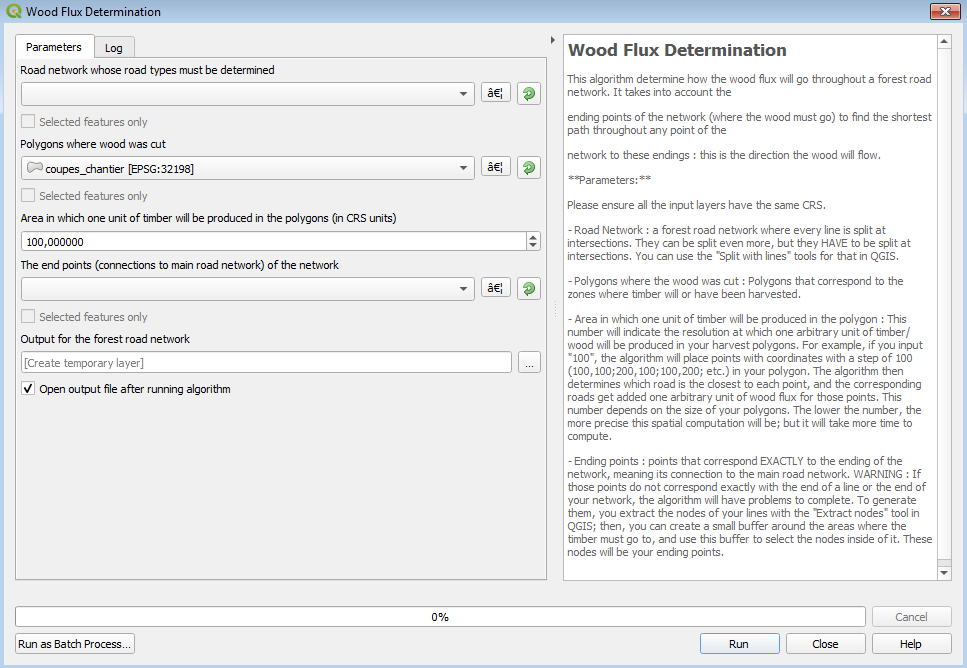
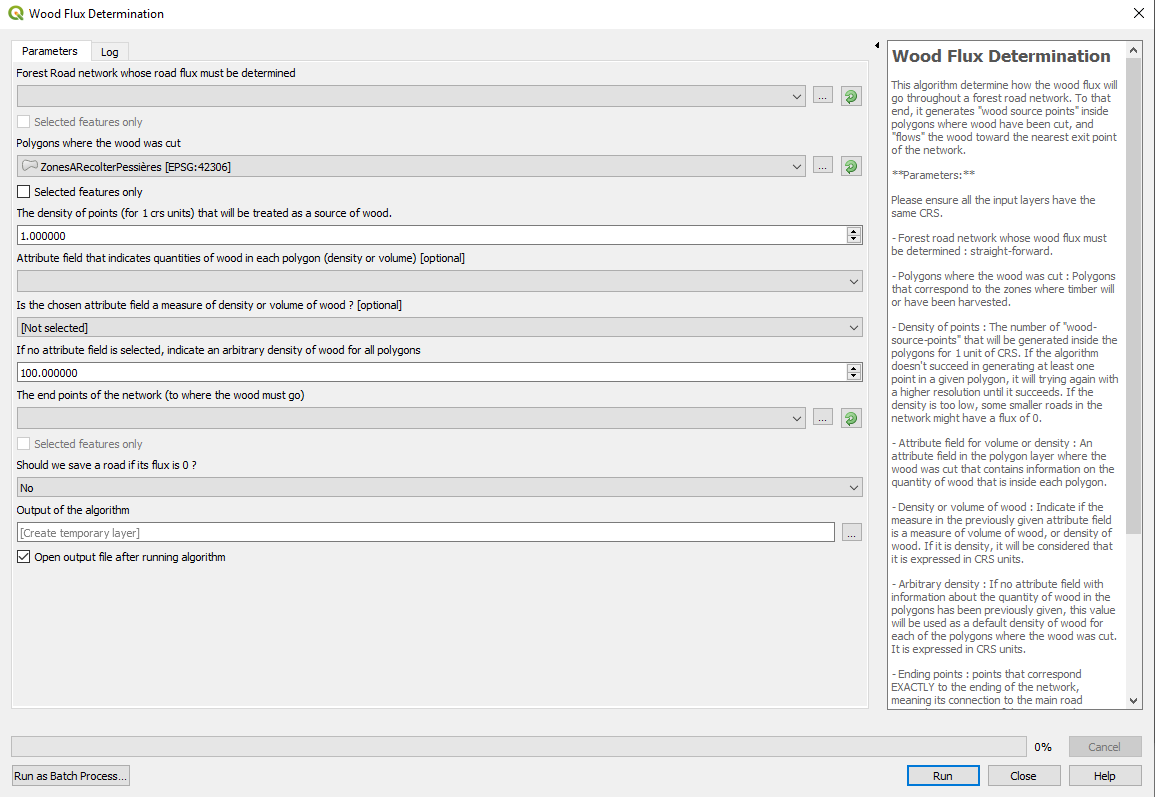
Update du readme

diff --git a/README.md b/README.md
@@ -4,10 +4,10 @@ This plugin contains several algorithms destined to help the user create an opti
 
 ## Features
 
-- An algorithm to help the user to create a cost raster that is used afterward to compute the path of the forest road network [Yet to come]
+- An algorithm to help the user to create a cost raster that is used afterward to compute the path of the forest road network
 - An algorithm that creates the path of the forest road network in space
 - An algorithm that determine how the wood will flow through the created forest road network
-- An algorithm that will determine the type of each forest road (primary, secondary, tertiary, temporary/winter roads, etc.) according to the wood flux data [Yet to come]
+- An algorithm that will determine the type of each forest road (primary, secondary, tertiary, temporary/winter roads, etc.) according to the wood flux data
 
 
 ## Download and use
@@ -32,18 +32,19 @@ The rasters are :
 - A raster containing information about fine topographic element, such as contour lines (e.g. number or length of contour lines in a pixel)
 - A raster containing information about bodies of water (lake, rivers) onto which a bridge is necessary (0 = no water, anything else = body of water in the pixel)
 - A raster containing information about streams crossing the pixel (e.g. number or length of streams in the pixel)
+- An additional raster that can contain any remaining cost (e.g. costs due to particular legislations, or to avoid particular fauna habitats)
 
-Only one of these raster is needed to launch the algorithm.
+Only one of these rasters is needed to launch the algorithm.
 
 The parameters are :
 
-- The reference cost of building a forest road of the smallest type on a flat terrain and with the best type of soil for road construction, on the length of a pixel
-- The "slope" parameter that multiplies the mean slope of a pixel to obtain an additional cost of construction
-- The "fine topography threshold" parameter; above this threshold for the fine topography raster (see above), the cost of construction will be multiplied by 2 due to detours that will have to be made to cross the pixel with a forest road
+- The basic distance cost of building a forest road of the smallest type on a flat terrain and with the best type of soil for road construction, on the length of a pixel
+- The "slope" table of parameter that will associate ranges of slope to an additional cost
+- The "fine topography threshold" table of parameter, which will associate ranges of values of fine topography to a multiplicator that will represent a detour that will have to be made while crossing the pixel
 - The "bridge" parameter, which correspond to the mean cost of constructing a bridge on a body of water the size of a pixel
 - The "culvert" parameter, which is the mean cost of construction a culvert on a stream
 
-Only the reference cost parameter is needed to launch the algorithm.
+Only the basic distance cost parameter is needed to launch the algorithm. Additional costs due to the slope or to soils can be estimated easily by a simple linear model based on real cost data of constructed roads; with the correct reference levels put into the intercept of the model, the intercept of the model will become the basic distance cost.
 
 We advise that the parameters and the cost rasters are all expressed in monetary units (such as dollards or euros) in order to facilitate parametrisation, and to better interpret the results of the Forest Road Network Creation algorithm (see below) if the cost raster produced by this algorithm is used for it.
  
@@ -56,7 +57,7 @@ We advise that the parameters and the cost rasters are all expressed in monetary
 
 ## The "Forest Road Network Creation" algorithm
 
-This algorithm uses a cost raster that indicate the cost of building a forest road on a given pixel; polygons that represent harvested areas; lines that represent the main road network to which the forest road network must ultimately connect to; and a heuristic that determine in which order the roads are created by the algorithm.
+This algorithm uses a cost raster that indicate the cost of building a forest road on a given pixel; polygons that represent harvested areas; lines that represent the main road network to which the forest road network must ultimately connect to; and a heuristic that determine in which order the roads are created by the algorithm. It can also take into account the angle of travel from one pixel to another to avoid sharp turns; but this function is still experimental.
 
 The use of a heuristic to cut the MTAP (Multiple Target Access Problem) that represents the creation of an optimized forest road network into a set of STAP (Single Target Access Problem) that are dealt with in the given order of the heuristic is a method currently used by professional softwares such as REMSOFT Road Optimizer. However, I do not consider this plugin to be made for operational planning of forest road networks; it is rather made for strategical planning of theoretical exercises. 
  
@@ -69,9 +70,11 @@ The use of a heuristic to cut the MTAP (Multiple Target Access Problem) that rep
 
 ## The "Wood Flux Determination" algorithm
 
-This algorithm use the previously created forest road network, the polygons where the wood was/will be harvested, and the end points of the network (where it connects with the main road network).
+This algorithm use the previously created forest road network, the polygons where the wood was/will be harvested, and the end points of the network (where it connects with the main road network). 
 
 Using a hydrological approach coupled with the calculation of the least-cost path from any road segment to the end points of the network, the flux is then created from the harvested area, and "fluxed" down the network until all arbitrary units of wood have reach and end point of the network.
+
+To determine from where the wood comes from, and to where it will go from it source, the algorithm creates "source points" in the harvested polygons according to a point density given by the user. However, the algorithm will adapt to put at least one point in each polygon if the density given is too low for the size of a single polygon.
  
 **Interface of the "Wood Flux Determination" algorithm**
 ![Interface](Test_data/images/WoodFluxDetermination_Interface.PNG)
@@ -82,7 +85,8 @@ Using a hydrological approach coupled with the calculation of the least-cost pat
 ## The "Road Type Determination" algorithm
 
 This algorithm use the previously created forest road network where the wood flux are calculated, and optionally polygons to determine zones where temporary roads should be built as much as possible.
-The user must also indicate thresholds of wood flux to select the right road type for each forest road; and optionally, a percentage of tertiary roads that can be accommodated as temporary roads.
+
+The user must also indicate thresholds of wood flux to select the right road type for each forest road; and optionally, a certain type of road that can be accommodated as temporary roads. If so, a percentage of length of this type of road to convert to temporary roads must also be given.
 
 **Interface of the "Road Type Determination" algorithm**
 ![Interface](Test_data/images/RoadTypeDetermination_Interface.PNG)
